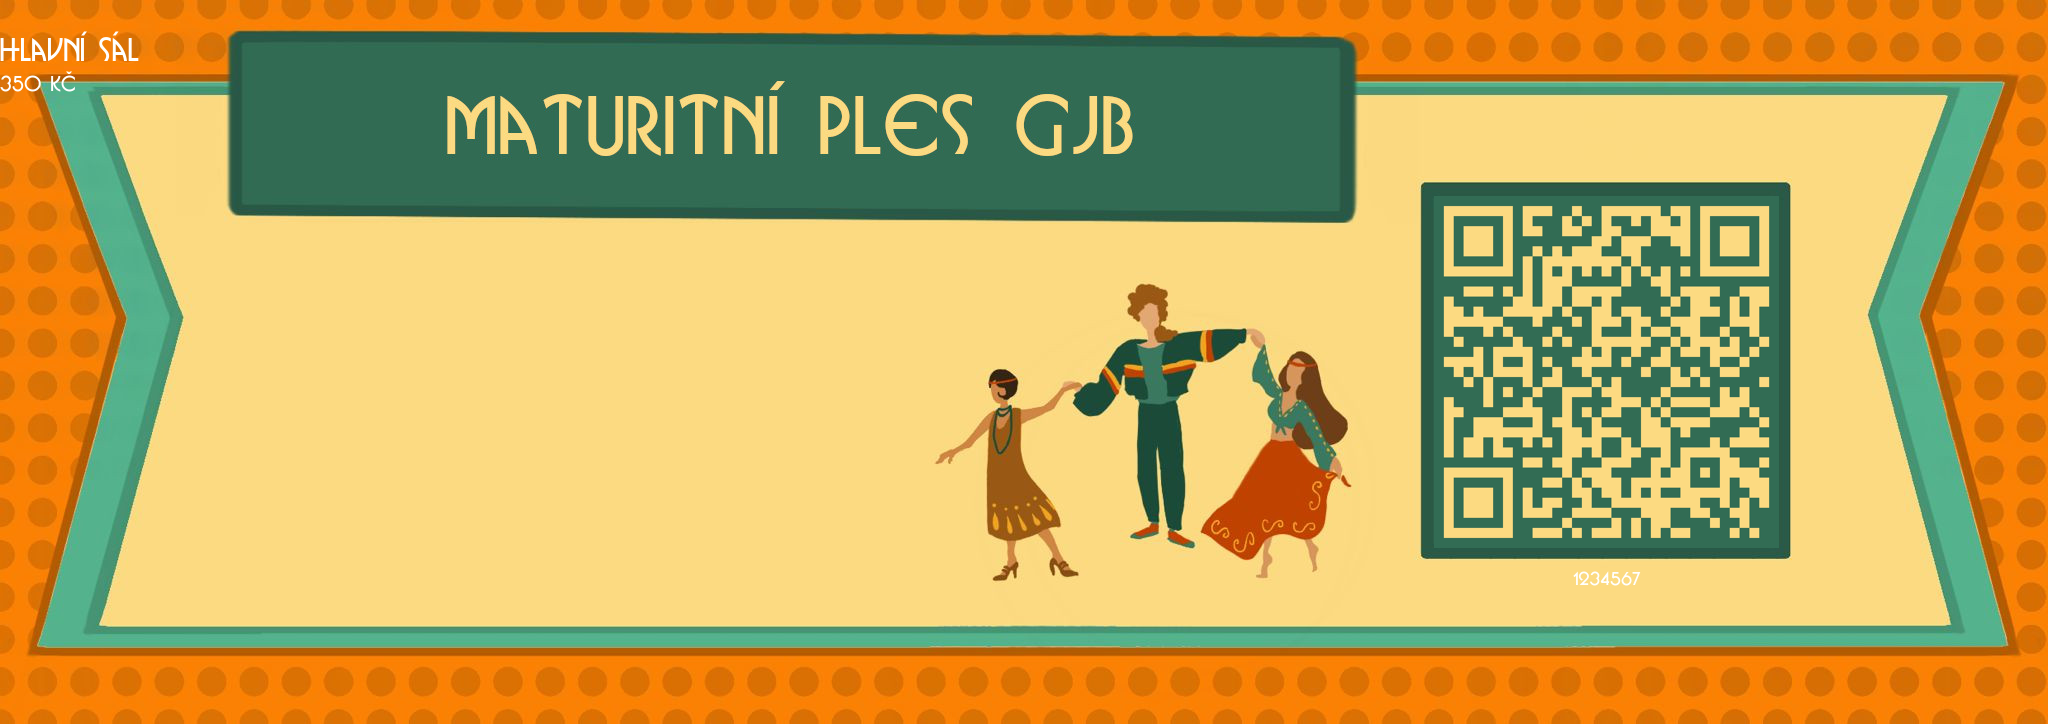
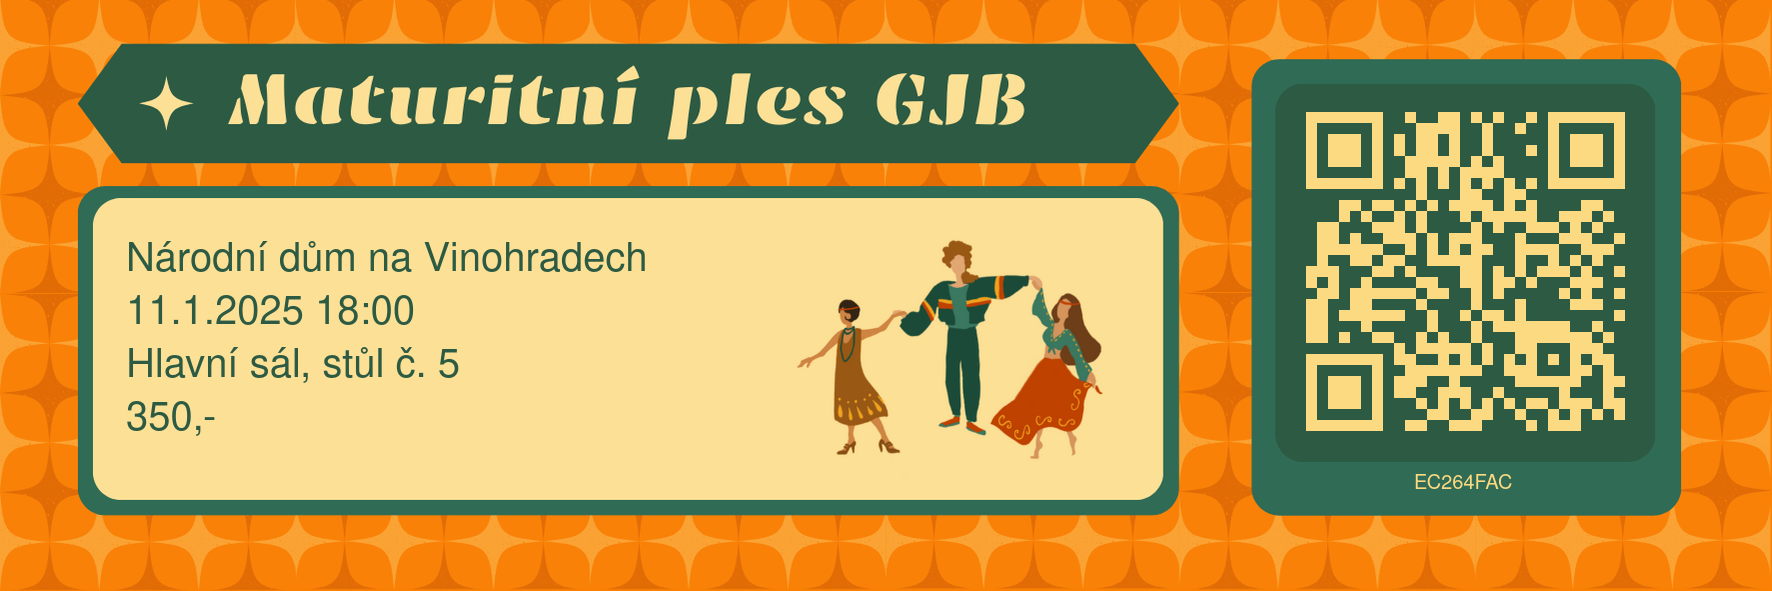
generating is working!

diff --git a/ticket-generator/ticket.rb b/ticket-generator/ticket.rb
@@ -2,40 +2,50 @@ require 'rmagick'
 require 'rqrcode' # Library for generating QR codes
 
 # [color, filling]
-colors = ["fcda81", "326c54"]
-template = Magick::Image.read("/home/bakterio/Programming/ples-lol/app/assets/images/ticket-with-title.jpeg").first
+colors = ["#fcda81", "#2c5a43"]
+template = Magick::Image.read("/home/bakterio/Programming/ples-lol/app/assets/images/ticket3.png").first
 
 # Set up the text to annotate
 name = "Hlavní sál"
-price = "350" + " Kč"
-digest = "1234567"
+price = "350"
+digest = "EC264FAC"
+table = "5"
+
+content = "Národní dům na Vinohradech
+11.1.2025 18:00
+#{name}, stůl č. #{table}
+#{price},-"
 
 # Annotate title
 draw = Magick::Draw.new
-draw.font = "/home/bakterio/Programming/ples-lol/app/assets/fonts/bosanova.ttf"
-draw.pointsize = 30
-draw.fill = 'white'
 draw.gravity = Magick::NorthWestGravity
-draw.annotate(template, 0, 0, 0, 30, name)
+
+# Digest
+draw.pointsize = 20
+draw.fill = colors[0]
+draw.annotate(template, 0, 0, 1467-53, 438+54*2/3, digest)
+
+# TableLocation
+draw.pointsize = 40
+draw.font = "URW Gothic"
+draw.fill = colors[1]
+draw.interline_spacing = 12
 
 # Annotate subtitle
-draw.pointsize = 20
-draw.annotate(template, 0, 0, 0, 70, price)
+draw.annotate(template, 0, 0, 126, 241, content)
 
 # Annotate details
-draw.pointsize = 18
-draw.annotate(template, 0, 0, 1606-67/2, 546+20, digest)
 
 # Generate QR code
 qr = RQRCode::QRCode.new("https://PLES.LOL/abc1234")
-qr_image = qr.as_png(size: 350, color: colors[0], fill: colors[1], border_modules: 0)
+qr_image = qr.as_png(size: 332, color: colors[0], fill: colors[1], border_modules: 0)
 
 # Convert QR code to ImageMagick format
 qr_magick = Magick::Image.from_blob(qr_image.to_blob) { format = 'png' }.first
-qr_magick.resize!(345, 352)
+qr_magick.resize!(332, 332)
 
 # Composite QR code onto template
-template.composite!(qr_magick, Magick::NorthWestGravity, 1434, 196, Magick::OverCompositeOp)
+template.composite!(qr_magick, Magick::NorthWestGravity, 1300, 106, Magick::OverCompositeOp)
 
 # Save the final ticket image
 template.write("output.png")

diff --git a/app/models/ticket.rb b/app/models/ticket.rb
@@ -12,8 +12,64 @@ class Ticket < ApplicationRecord
     Digest::SHA2.new(256).hexdigest(secret+id.to_s).upcase[0..7]
   end
   
-  def generate_ticket_pdf
+  def generate_ticket
+    # [color, filling]
+    colors = ["#fcda81", "#2c5a43"]
+    template = Magick::Image.read(Rails.root.join("app/assets/images/ticket3.png")).first
 
+    # Set up the text to annotate
+
+    if self.table.table_location.name == "Stání"
+    content = "Národní dům na Vinohradech
+11.1.2025 18:00
+#{self.table.table_location.name}
+#{self.table.table_location.price},-"
+  else
+    content = "Národní dům na Vinohradech
+11.1.2025 18:00
+#{self.table.table_location.name}, stůl č. #{self.table.number}
+#{self.table.table_location.price},-"
+  end
+
+    # Annotate title
+    draw = Magick::Draw.new
+    draw.gravity = Magick::NorthWestGravity
+
+    # Digest
+    draw.pointsize = 20
+    draw.fill = colors[0]
+    draw.annotate(template, 0, 0, 1467-53, 438+54*2/3, self.digest)
+
+    # TableLocation
+    draw.pointsize = 40
+    draw.font = "URW Gothic"
+    draw.fill = colors[1]
+    draw.interline_spacing = 12
+
+    # Annotate subtitle
+    draw.annotate(template, 0, 0, 126, 241, content)
+
+    # Annotate details
+
+    # Generate QR code
+    qr = RQRCode::QRCode.new("https://PLES.LOL/" + self.digest)
+    qr_image = qr.as_png(size: 332, color: colors[0], fill: colors[1], border_modules: 0)
+
+    # Convert QR code to ImageMagick format
+    qr_magick = Magick::Image.from_blob(qr_image.to_blob) { format = 'png' }.first
+    qr_magick.resize!(332, 332)
+
+    # Composite QR code onto template
+    template.composite!(qr_magick, Magick::NorthWestGravity, 1300, 106, Magick::OverCompositeOp)
+
+    # Save the final ticket image
+    template.write(Rails.root.join("ticket-generator/output/#{self.table.table_location.name.gsub(" ", "-") + "-" + self.table.number.to_s + "-" + self.id.to_s}.png"))
+  end
+
+  def self.generate_tickets
+    Ticket.all.each do |ticket|
+      ticket.generate_ticket
+    end
   end
 
 private

diff --git a/db/seeds.rb b/db/seeds.rb
@@ -8,10 +8,6 @@
 #     MovieGenre.find_or_create_by!(name: genre_name)
 #   end
 
-Ticket.delete_all
-Table.delete_all
-TableLocation.delete_all
-
 
 def load_tables(table_location, tables)
   table_counter = 1
@@ -25,7 +21,7 @@ def load_tables(table_location, tables)
 end
 
 # Hlavní sál
-hl = TableLocation.create!(name: "Majekovského (hlavní) sál", price: 600)
+hl = TableLocation.create!(name: "Majekovského sál", price: 600)
 
 # number of the first table, number of the last table, table capacity (number of seats)
 hl_tables = [
